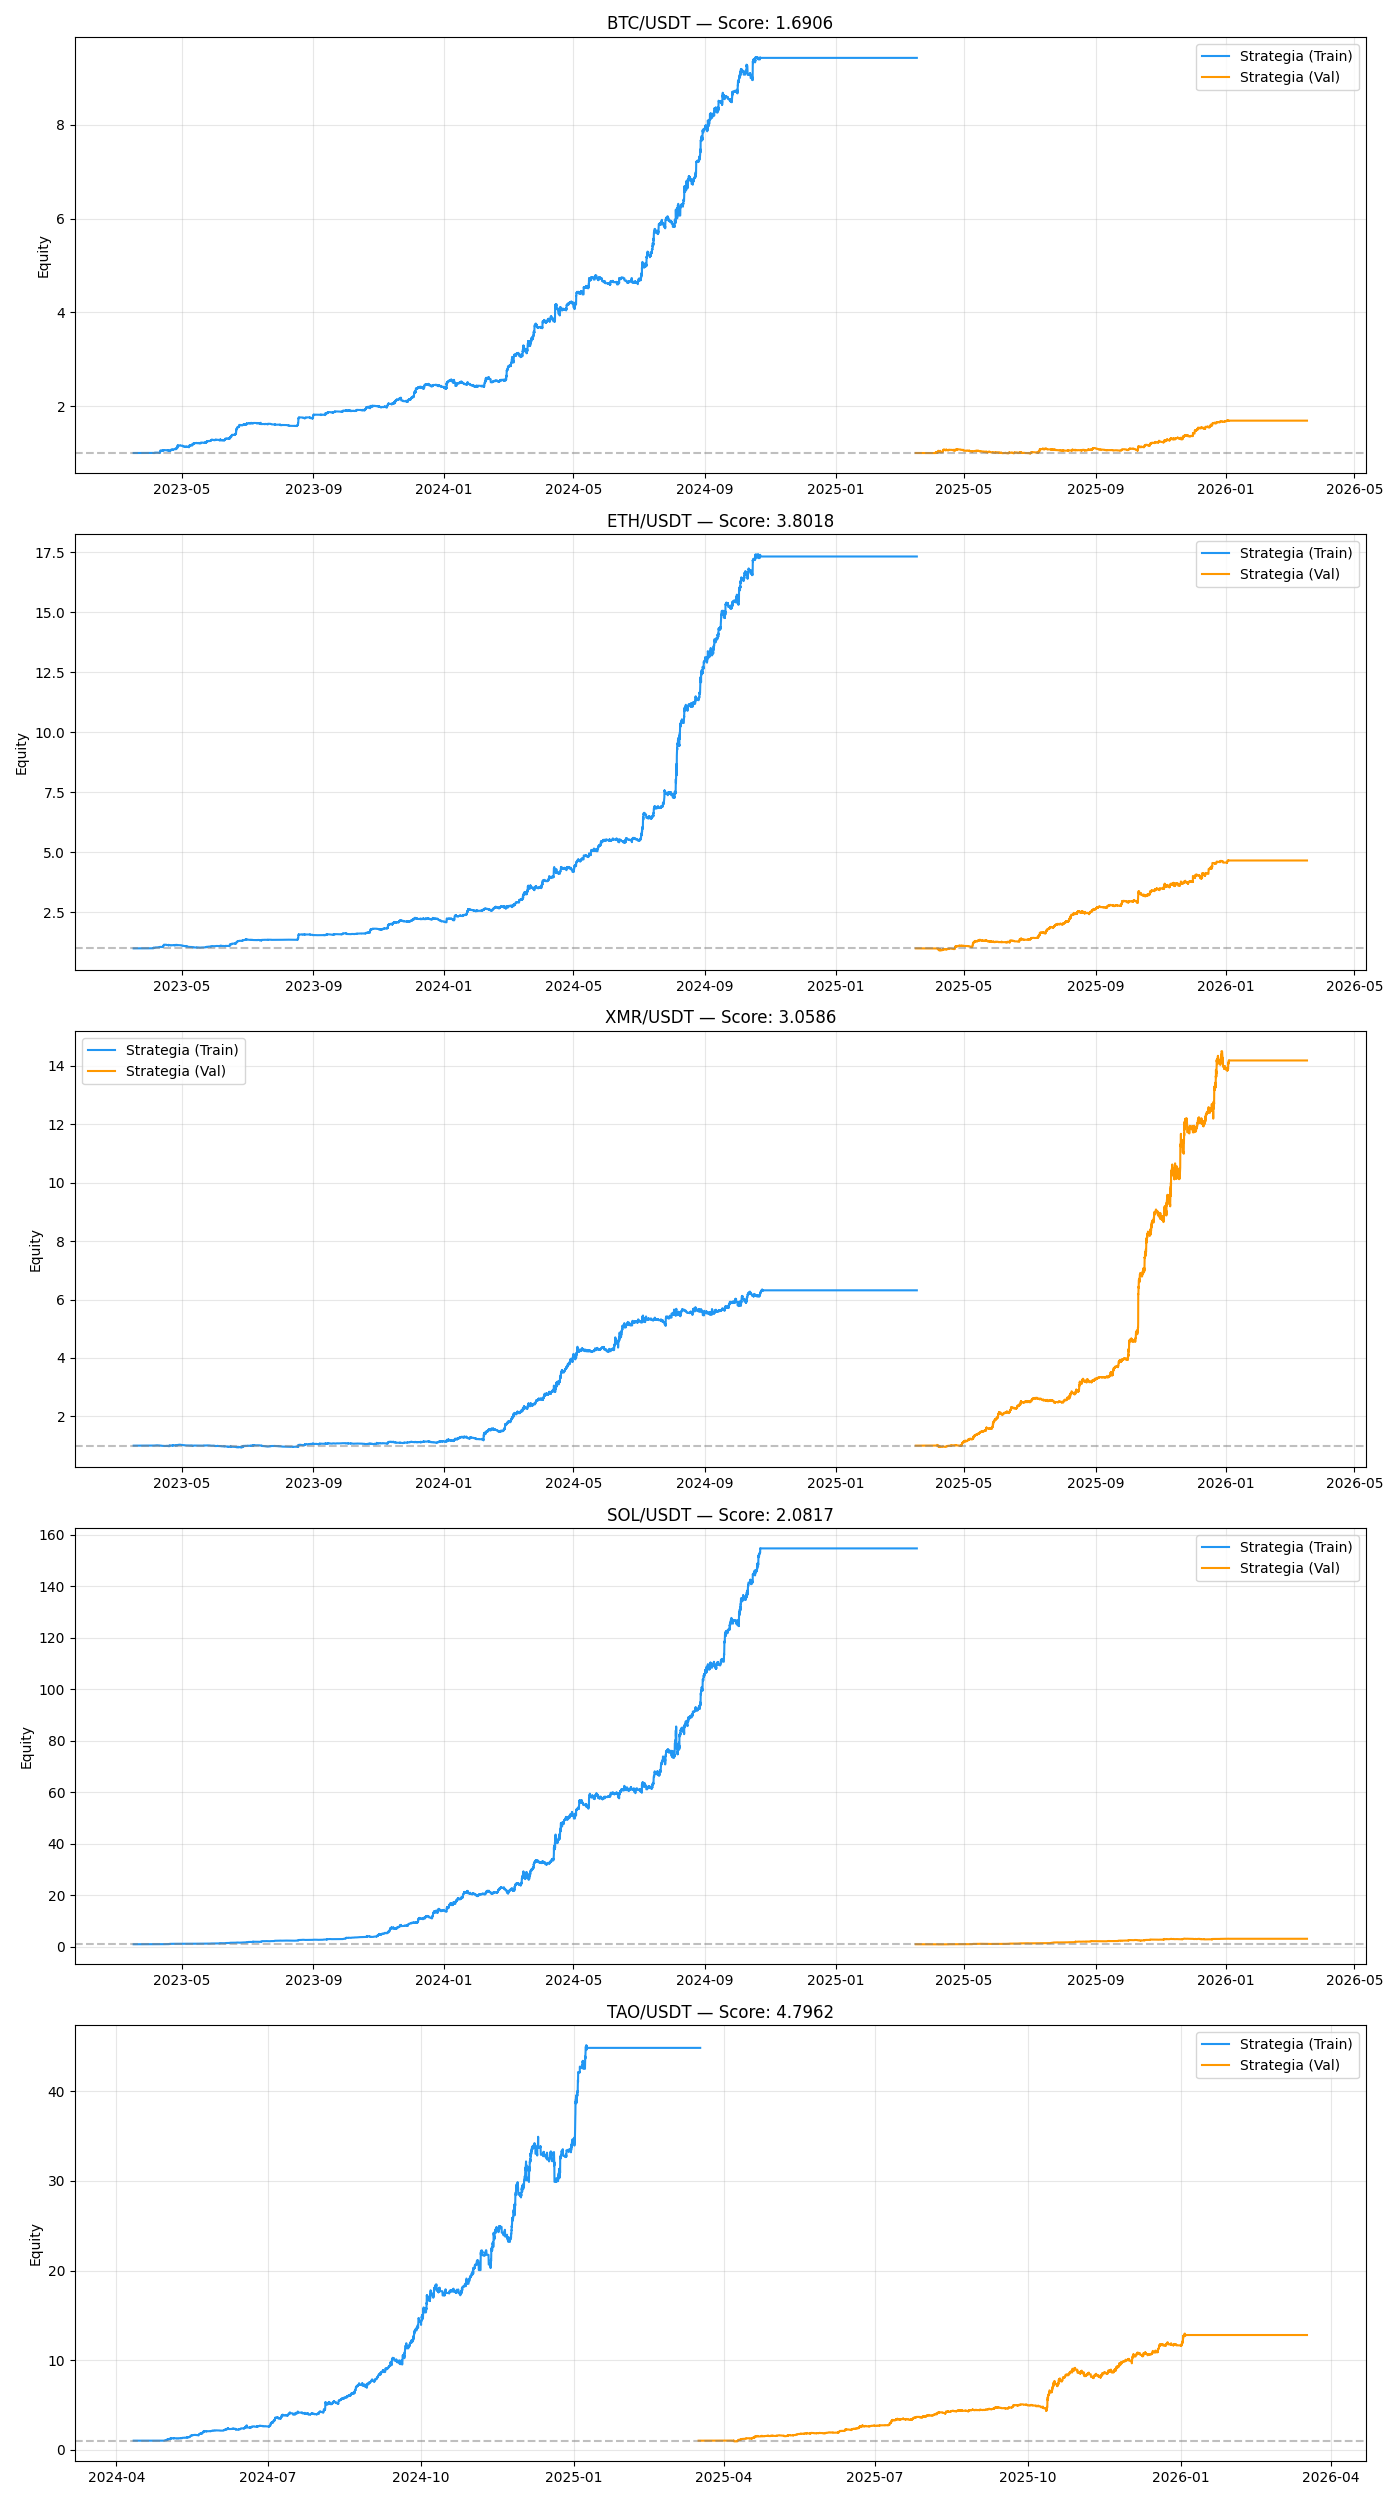
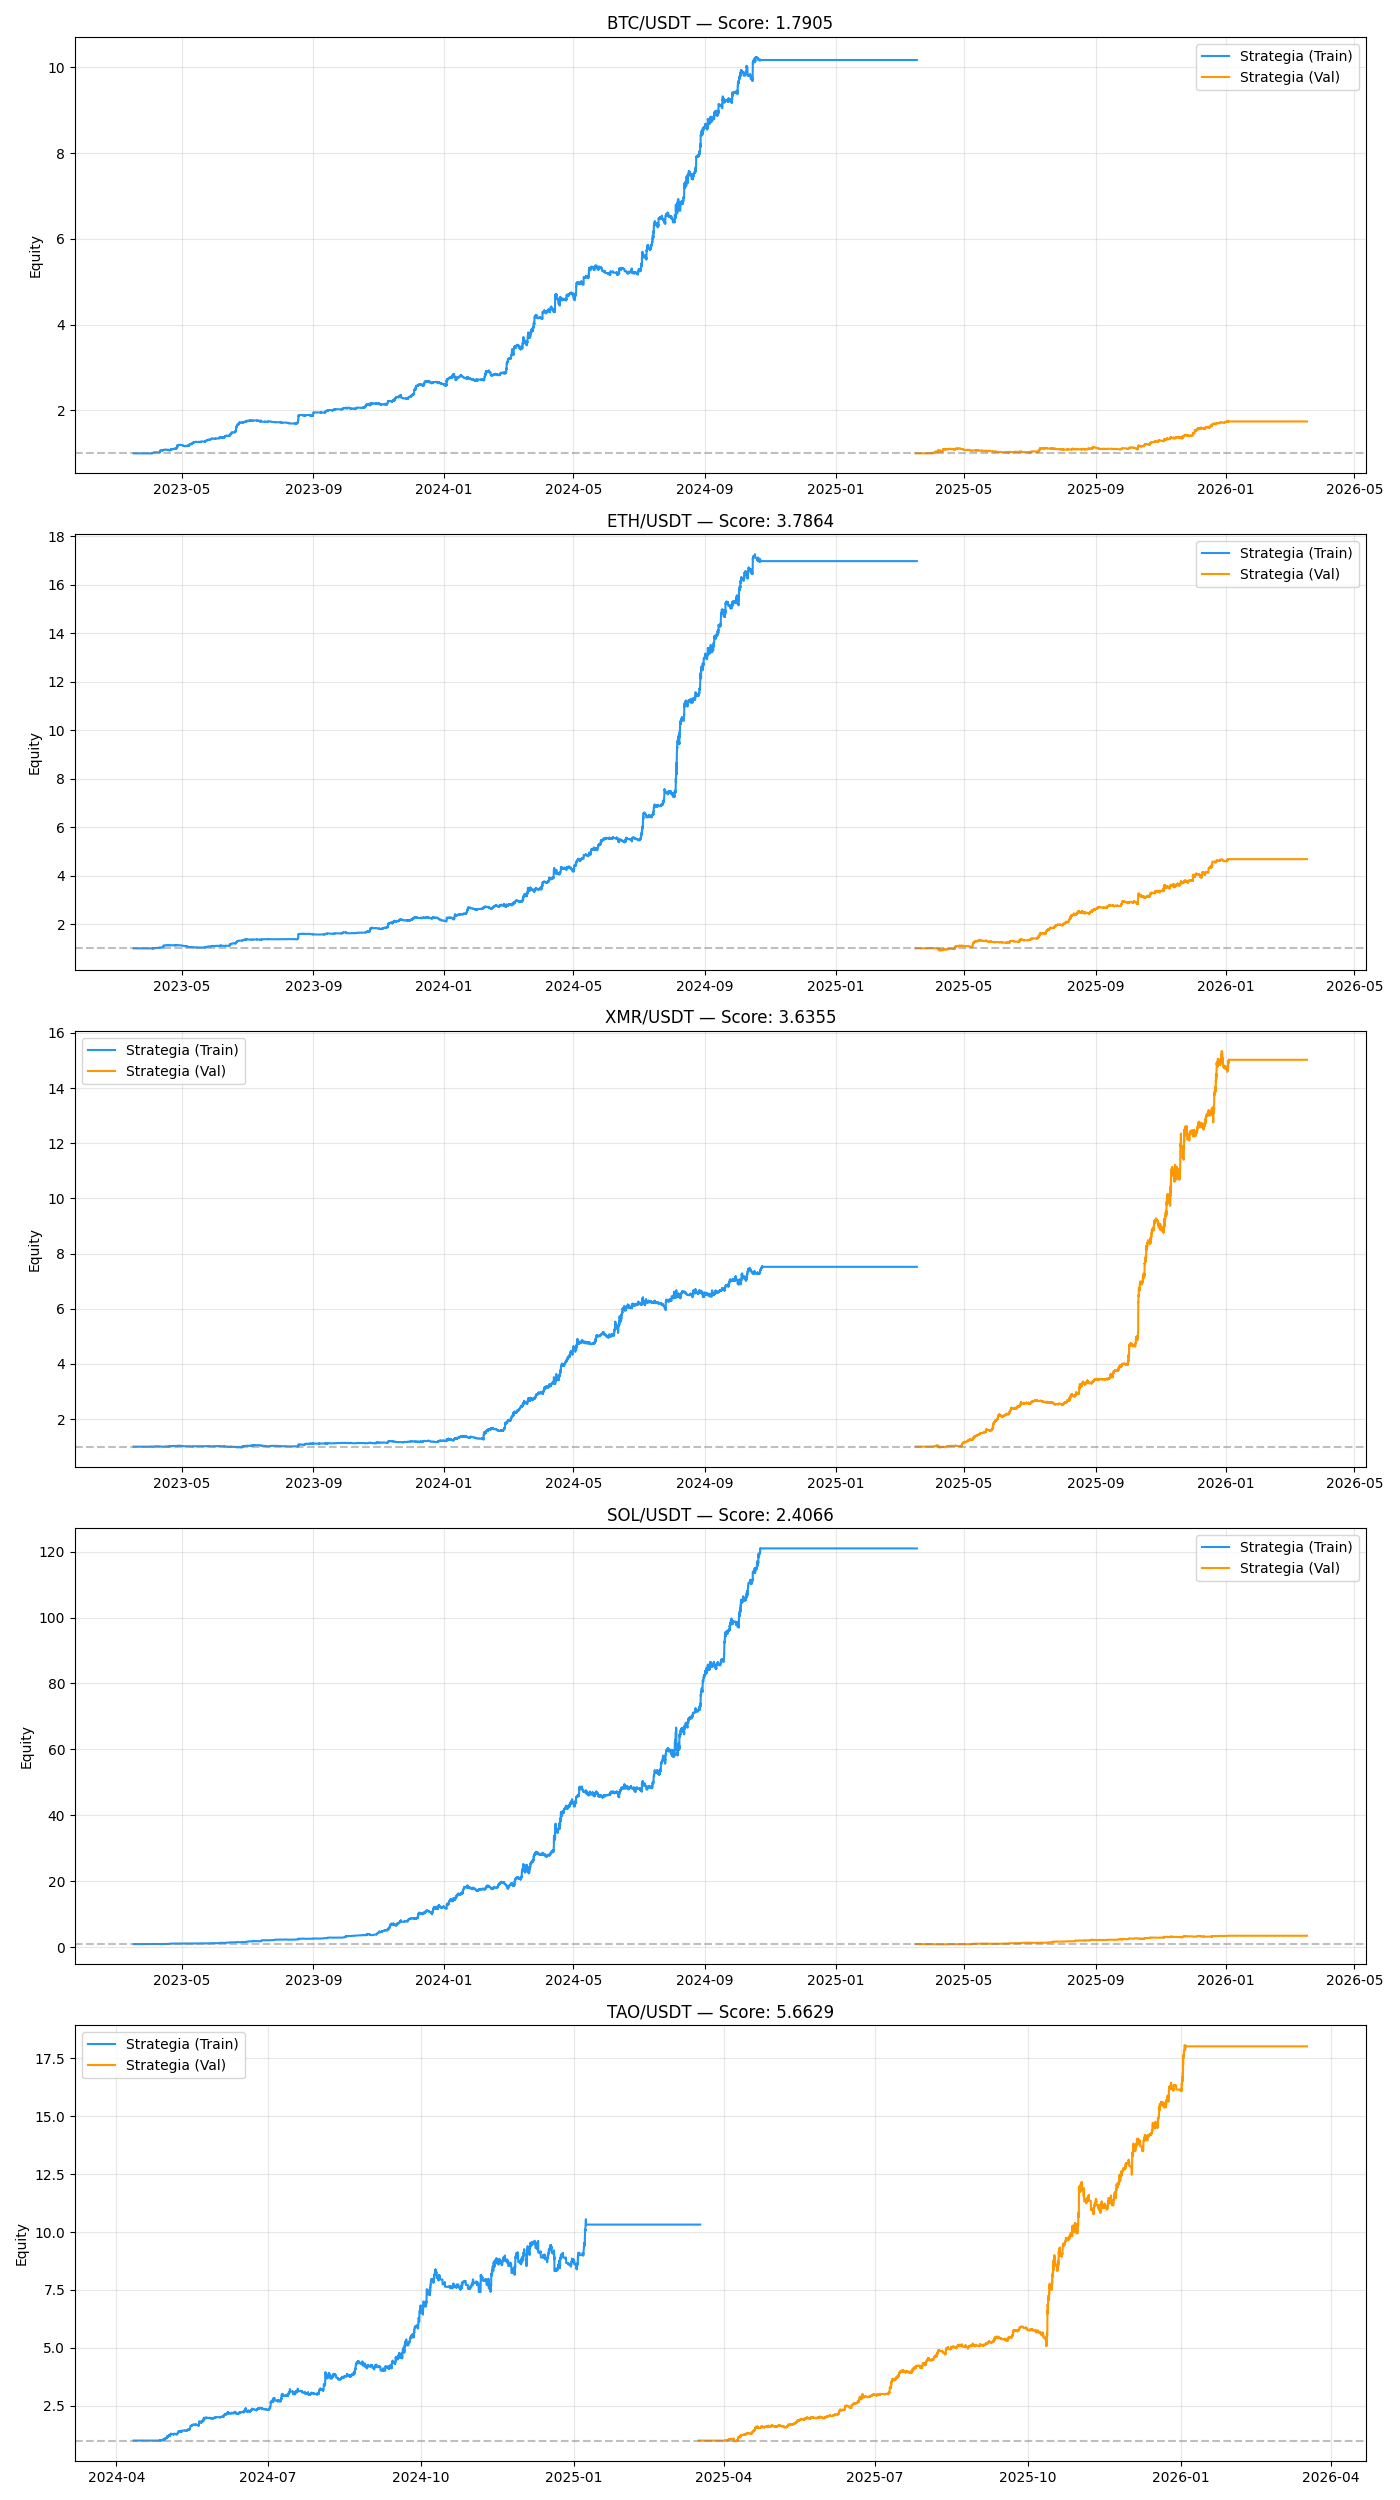
Naprawki live_signals + cache modeli + porządki (2026-03-19)
- live_signals.py: naprawiony fetch Bitfinex (parametr since) — XMR pokazywał cenę sprzed 2 dni
- strategy.py: cache modeli .pt działa poprawnie, naprawiony _asset_id() (SOL/XMR/TAO rozróżnienie)
- strategy.py: LOOKBACK przywrócony do 168, predict_live() dla trybu live
- program.md: sekcja live_signals, folder logi/
- .gitignore: dodane *.zip i logi/

diff --git a/live_signals.py b/live_signals.py
@@ -65,10 +65,15 @@ BG_YELLOW = "\033[43;30m"
 # ─── Pobieranie świeżych danych ─────────────────────────────────
 
 def fetch_fresh_crypto(symbol: str, limit: int = 500) -> pd.DataFrame:
-    """Pobiera najnowsze świece 1H z giełdy (bez cache)."""
+    """Pobiera najnowsze świece 1H z giełdy (bez cache).
+    Używa parametru since aby zawsze pobierać NAJNOWSZE świece — niezbędne dla Bitfinex,
+    który bez since zwraca dane od początku historii zamiast od końca.
+    """
     exchange, exchange_id = _get_exchange(symbol)
 
-    candles = exchange.fetch_ohlcv(symbol, "1h", limit=limit)
+    # since = teraz minus (limit * 1h) → gwarantuje najnowsze świece
+    since_ms = int((time.time() - limit * 3600) * 1000)
+    candles = exchange.fetch_ohlcv(symbol, "1h", since=since_ms, limit=limit)
     if not candles:
         return pd.DataFrame()
 
@@ -77,6 +82,13 @@ def fetch_fresh_crypto(symbol: str, limit: int = 500) -> pd.DataFrame:
     df = df.set_index("timestamp")
     df = df[~df.index.duplicated(keep="first")]
     df = df.sort_index()
+
+    # Ostrzeżenie jeśli dane są starsze niż 3 godziny
+    if not df.empty:
+        age_hours = (time.time() - df.index[-1].timestamp()) / 3600
+        if age_hours > 3:
+            print(f"  ⚠ {symbol}: ostatnia świeca sprzed {age_hours:.0f}h — dane mogą być nieaktualne")
+
     return df
 
 

diff --git a/strategy.py b/strategy.py
@@ -649,16 +649,24 @@ def btc_simple_strategy(df, context):
 # ─── Cache modeli ────────────────────────────────────────────────
 
 def _asset_id(df) -> str:
-    """Identyfikuje asset po cenie i zmienności."""
+    """Identyfikuje asset po cenie mediany i zmienności.
+    Progi dobrane empirycznie na danych 2023-2026 (wszystkie okresy: full/train/val):
+      BTC  median > 10 000
+      ETH  median > 1 000
+      XMR  vol < 0.011 AND median > 155  (train=162, val=324 — zawsze > 155)
+      TAO  median > 150  (val=248, train=~300 — zawsze > SOL)
+      SOL  reszta  (val median=148, train=40 — zawsze < 150)
+    Uwaga: SOL w val period ma vol=0.0088 (niższy niż XMR!), dlatego sam vol nie wystarczy.
+    """
     median_price = df["close"].median()
     vol = df["close"].pct_change().std()
     if median_price > 10000:
         return "btc"
-    elif median_price < 1000 and vol < 0.016:
-        return "xmr"
     elif median_price > 1000:
         return "eth"
-    elif len(df) < 12000:
+    elif vol < 0.011 and median_price > 155:
+        return "xmr"
+    elif median_price > 150:
         return "tao"
     return "sol"
 

diff --git a/program.md b/program.md
@@ -186,3 +186,20 @@ LSTM h=384 3L:         2.116  (#103, 2026-03-19 00:18)
 - Wyniki logowane automatycznie do `results.tsv`
 - Wszystkie pliki i komentarze w języku polskim
 - evaluate() wywołuje strategy() **10 razy** (5 assetów × 2 okresy: train i val)
+- Logi z eksperymentów w folderze `logi/` (format: `logi/run_NNN.log`)
+
+## live_signals.py
+
+Generuje sygnały live bez ponownego treningu — ładuje modele z dysku.
+
+```bash
+python3 live_signals.py              # jednorazowo
+python3 live_signals.py --loop       # pętla co godzinę
+python3 live_signals.py --loop --telegram  # + powiadomienia Telegram
+```
+
+Modele cache: `~/.cache/autoquant/best_model/lstm_{asset}_s42.pt` (5 plików ~12MB każdy).
+Po każdym `python3 strategy.py` modele są automatycznie aktualizowane.
+
+**Uwaga `_asset_id()`:** SOL w val period (bessa) ma vol < XMR — identyfikacja po vol+cenie:
+`vol < 0.011 AND median > 155` → xmr | `median > 150` → tao | reszta → sol
